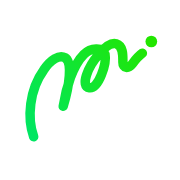
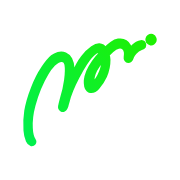
ファビコンとヘッダーのロゴを、デザイナーの元データから取り出したベクターに差し替える
入稿用 PDF（Illustrator）の 2 ページ目に緑のラインがベクターで入っていたので、
なぞり描きの SVG をやめ、元データの形をそのまま使う。
- pjs_mark.svg：元データそのままの形（ヘッダー左上のロゴ）
- favicon.svg と PNG 版：同じ形を正方形に収め、輪郭線で太らせて小さくても見えるようにしたもの
色は Web 用ロゴ（pjs_logo.png）と同じ緑のグラデーションにしている。

Claude-Session: https://claude.ai/code/session_012aFhsAPVuhNiGoUvEJsagk

diff --git a/CLAUDE.md b/CLAUDE.md
@@ -45,7 +45,7 @@
 - 過去版（`docs/archive/`、`docs/en/archive/`）の本文は変更しない。表示上の調整（alt、リンク先など）はビルド側（`config.ts` の markdown ルール、リダイレクト）で行う。やむを得ず本文を直すときは PR で理由を説明する。
 - Release Notes の正本は `docs/releases.md`。GitHub Releases にはタグと短い要約だけ。
 - 図版は `docs/code/images/` に置く。GitHub の添付 URL を参照しない。
-- ファビコン（`docs/public/favicon.svg` と PNG 版）とヘッダーのロゴ（`pjs_mark.svg`）は、ロゴの緑のラインだけを元画像からなぞって描き起こしたもの。トップページの大きなロゴは `pjs_logo.png`（背景透過）。デザイナーの元データが手に入ったら差し替える。
+- ファビコン（`docs/public/favicon.svg` と PNG 版）とヘッダーのロゴ（`pjs_mark.svg`）は、ロゴの緑のラインだけのもの。形はデザイナーの元データ（Illustrator の入稿用 PDF）から取り出したベクターで、勝手に描き直さない。ファビコンは同じ形を輪郭線で太らせて小さくても見えるようにしてある。トップページの大きなロゴは `pjs_logo.png`（背景透過）。
 - トップページのコピー（`docs/index.md` の hero）は、文節を `<span class="nb">` で包んで意味の切れ目でだけ改行させている。文言を変えるときも同じ形にする。
 - Markdown に `<style>` / `<script>` を書かない。CSS は `docs/.vitepress/theme/custom.css` へ。画像には alt を付ける。`<BR>` は `<br>`（大文字は Vue がビルドで落ちる）。
 - 旧 GitBook / Jekyll 時代の URL はビルド時に転送ページを生成している（`docs/.vitepress/redirects.ts`、`old-urls.txt`）。ページを移動・改名したら `mapOldPath` に旧パスを足す。
